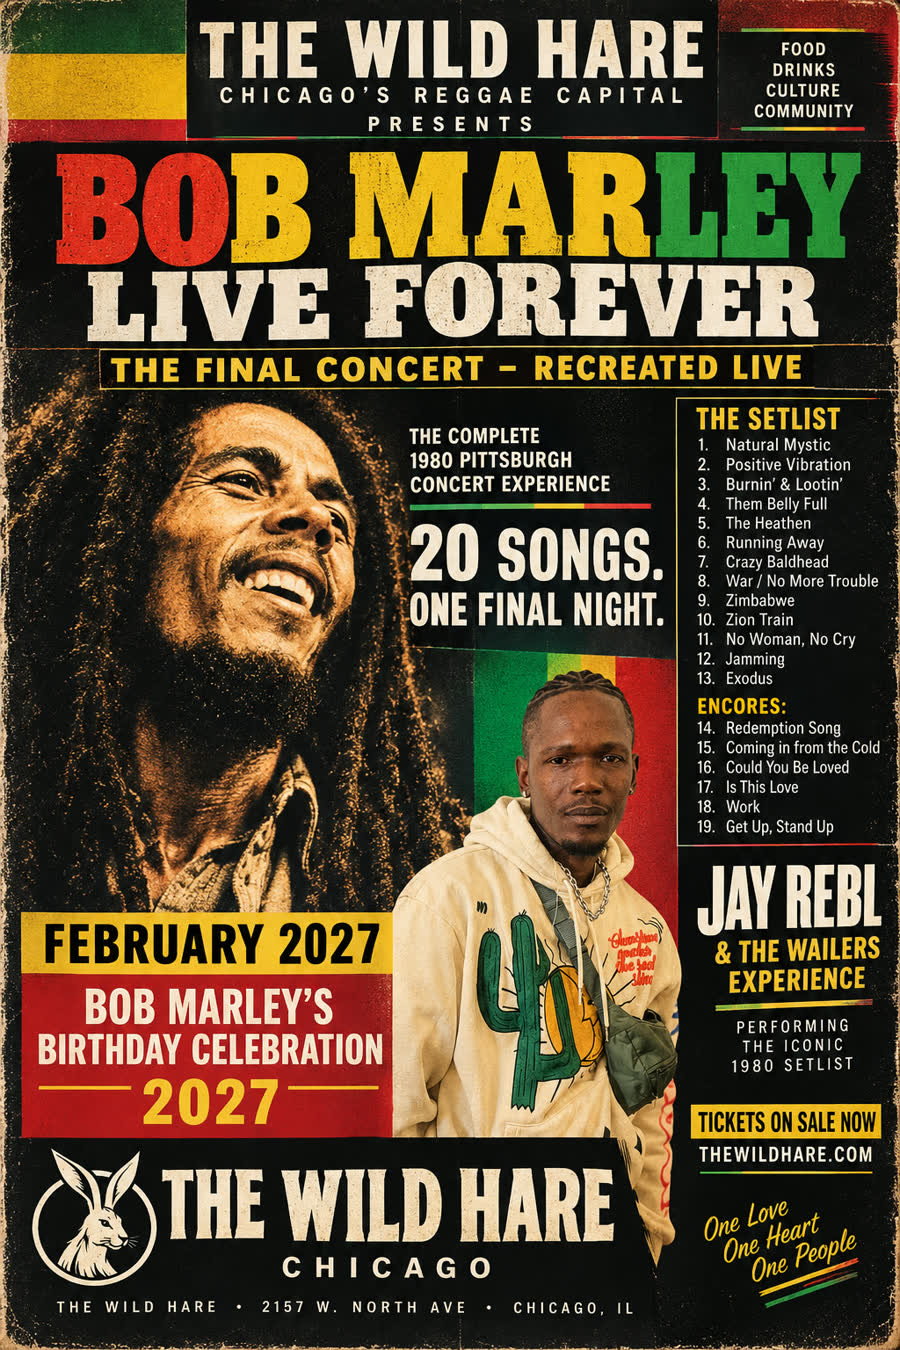
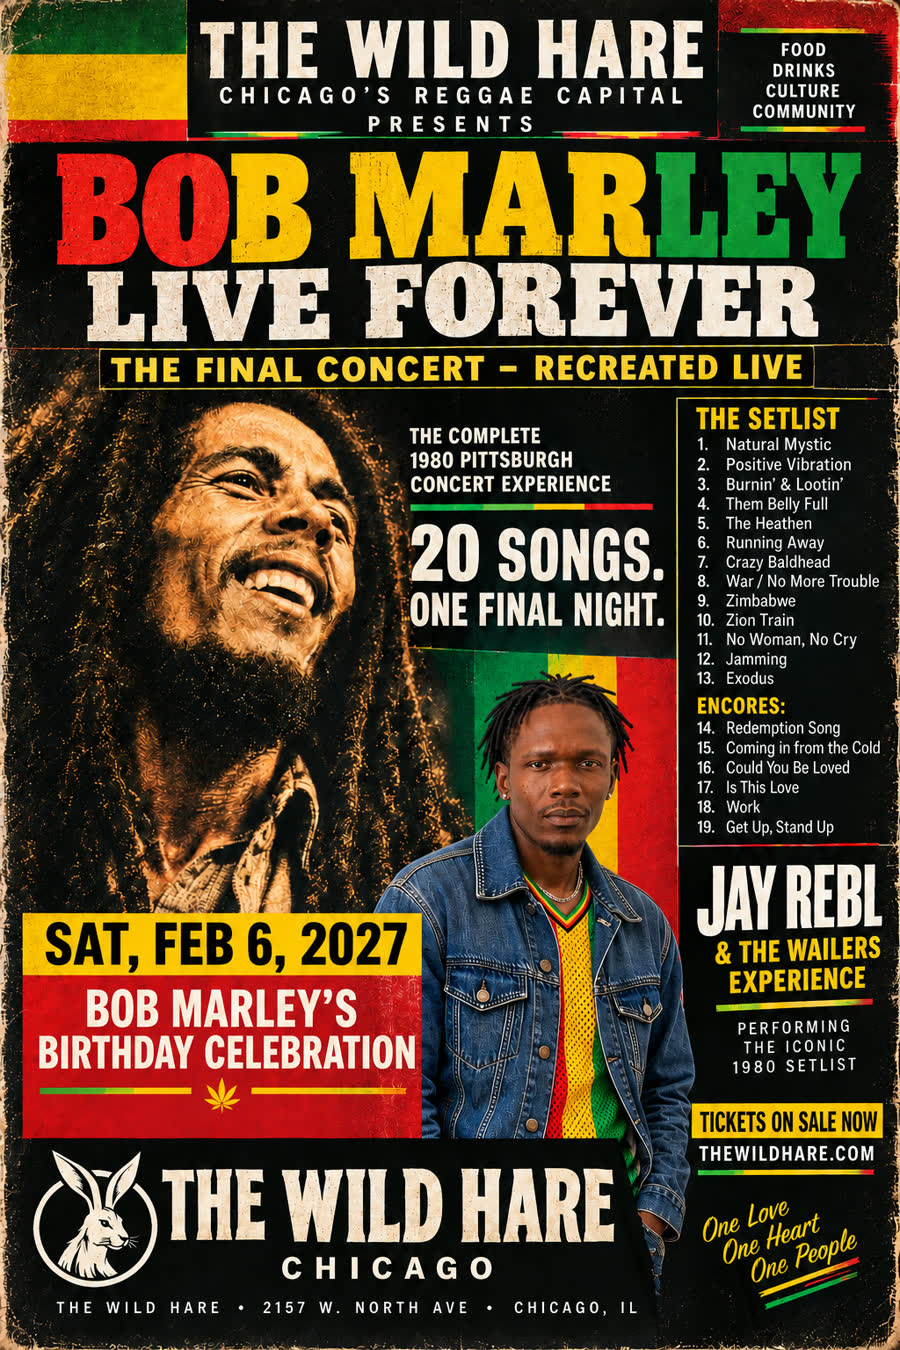
Update Bob Marley tribute: confirmed date + real backing band (Indika)
New flyer confirms the show date: Saturday, February 6, 2027 (Bob
Marley's actual birthday -- verified Feb 6, 2027 does fall on a
Saturday, not just trusted from the image). Replaces the "exact date
TBD" placeholder throughout, and adds proper MusicEvent schema markup
now that a real date exists.

Backing band is Indika Reggae Band, a real Chicago reggae institution
since the mid-1990s (billed on the flyer itself as "The Wailers
Experience") -- they have their own page on selassiefest.com, have
previously played this same venue, and have backed reggae legends
including Gregory Isaacs, Luciano, Richie Spice, and Calypso Rose per
that page. Added a cross-site "Meet Indika Reggae Band" link.

diff --git a/src/routes/-bob-marley-live-forever-page.tsx b/src/routes/-bob-marley-live-forever-page.tsx
@@ -3,11 +3,17 @@
 // src/routes/README.md.
 //
 // Tribute page for The Wild Hare's "Bob Marley: Live Forever — The Final
-// Concert, Recreated Live" (Feb 2027, Jay RebL & The Wailers Experience
-// performing the Sept 23, 1980 Stanley Theatre setlist). Two real
-// historical artifacts are used as photos: a Stanley Theatre backstage
-// pass (that actual night) and a Crystal Palace Bowl ticket stub (June 7,
-// 1980, same Uprising tour, his last-ever London show).
+// Concert, Recreated Live" (Feb 2027, Jay RebL performing the Sept 23,
+// 1980 Stanley Theatre setlist, backed by Indika Reggae Band -- the flyer
+// itself bills the backing band as "The Wailers Experience," but the real
+// band is Indika, a real Chicago reggae institution since the mid-1990s
+// with its own page at selassiefest.com/main-stage/indika-reggae-band.html
+// -- they've previously played The Wild Hare and backed reggae legends
+// including Gregory Isaacs, Luciano, Richie Spice, and Calypso Rose, per
+// that page). Two real historical artifacts are used as photos: a Stanley
+// Theatre backstage pass (that actual night) and a Crystal Palace Bowl
+// ticket stub (June 7, 1980, same Uprising tour, his last-ever London
+// show).
 //
 // Every historical claim below was verified against real sources before
 // writing, not recalled from memory alone -- notably: Marley collapsed
@@ -20,8 +26,11 @@
 // September 23, 1980 • Stanley Theatre • Pittsburgh, PA" (released Feb
 // 2011) almost exactly (the album additionally opens with a ~30-second
 // spoken "Greetings" intro the flyer omits). He died May 11, 1981, in
-// Miami. The Feb 2027 show's exact date is NOT given on the flyer (it's
-// tied to his Feb 6, 1945 birthday) -- don't invent one; say so on the page.
+// Miami. The flyer gives the show's date as Saturday, February 6, 2027 --
+// Bob Marley's actual birthday (Feb 6, 1945, verified earlier). Feb 6,
+// 2027 does fall on a Saturday, confirmed independently by date
+// arithmetic, not just trusted from the image. No exact showtime is
+// given, so that stays marked TBD rather than invented.
 import { CalendarDays, MapPin, Ticket, Share2, Instagram, Facebook, Twitter } from "lucide-react";
 import { Button } from "@/components/ui/button";
 import { Badge } from "@/components/ui/badge";
@@ -67,7 +76,7 @@ export function bobMarleyLiveForeverHead() {
       {
         name: "description",
         content:
-          "The Wild Hare presents Bob Marley: Live Forever — Jay RebL & The Wailers Experience perform the complete 20-song setlist from Bob Marley's actual final concert, September 23, 1980, Stanley Theatre, Pittsburgh. February 2027, Chicago.",
+          "The Wild Hare presents Bob Marley: Live Forever — Jay RebL, backed by Chicago's Indika Reggae Band, performs the complete 20-song setlist from Bob Marley's actual final concert, September 23, 1980, Stanley Theatre, Pittsburgh. February 2027, Chicago.",
       },
       {
         property: "og:title",
@@ -76,7 +85,7 @@ export function bobMarleyLiveForeverHead() {
       {
         property: "og:description",
         content:
-          "The complete 1980 Stanley Theatre setlist, performed live by Jay RebL & The Wailers Experience at The Wild Hare, Chicago. February 2027.",
+          "The complete 1980 Stanley Theatre setlist, performed live by Jay RebL and Indika Reggae Band at The Wild Hare, Chicago. February 2027.",
       },
       { property: "og:type", content: "article" },
       { property: "og:image", content: imageUrl },
@@ -93,8 +102,37 @@ export function bobMarleyLiveForeverHead() {
 }
 
 export function BobMarleyLiveForeverPage() {
+  const eventSchema = {
+    "@context": "https://schema.org",
+    "@type": "MusicEvent",
+    name: "Bob Marley: Live Forever — The Final Concert, Recreated Live",
+    startDate: "2027-02-06",
+    eventStatus: "https://schema.org/EventScheduled",
+    eventAttendanceMode: "https://schema.org/OfflineEventAttendanceMode",
+    image: [`${SITE_URL}${flyerImg}`],
+    location: {
+      "@type": "Place",
+      name: VENUE_NAME,
+      address: VENUE_ADDRESS,
+    },
+    organizer: {
+      "@type": "Organization",
+      name: "The Wild Hare",
+    },
+    performer: [
+      { "@type": "MusicGroup", name: "Jay RebL" },
+      { "@type": "MusicGroup", name: "Indika Reggae Band" },
+    ],
+  };
+
   return (
     <div>
+      <script
+        type="application/ld+json"
+        suppressHydrationWarning
+        dangerouslySetInnerHTML={{ __html: JSON.stringify(eventSchema) }}
+      />
+
       {/* Hero */}
       <section className="relative overflow-hidden border-b border-border bg-card">
         <div className="mx-auto max-w-4xl px-4 py-14 text-center sm:px-6 sm:py-20">
@@ -107,13 +145,13 @@ export function BobMarleyLiveForeverPage() {
           </p>
           <p className="mx-auto mt-4 max-w-2xl text-muted-foreground">
             The complete 20-song setlist from Bob Marley's actual final concert — September 23,
-            1980, the Stanley Theatre, Pittsburgh — performed live, start to finish, by Jay RebL
-            &amp; The Wailers Experience.
+            1980, the Stanley Theatre, Pittsburgh — performed live, start to finish, by Jay RebL,
+            backed by Indika Reggae Band.
           </p>
 
           <div className="mx-auto mt-6 flex max-w-xl flex-wrap items-center justify-center gap-x-6 gap-y-2 text-sm text-muted-foreground">
             <span className="inline-flex items-center gap-1.5">
-              <CalendarDays className="size-4 text-gold" /> February 2027
+              <CalendarDays className="size-4 text-gold" /> Saturday, February 6, 2027
             </span>
             <span className="inline-flex items-center gap-1.5">
               <MapPin className="size-4 text-gold" /> {VENUE_NAME}, Chicago
@@ -121,7 +159,7 @@ export function BobMarleyLiveForeverPage() {
           </div>
           <div className="mt-3 flex justify-center">
             <Badge variant="outline" className="border-gold/40 text-xs text-gold">
-              Bob Marley's Birthday Celebration — exact date TBD, check thewildhare.com
+              Bob Marley's Birthday Celebration — showtime TBD, check thewildhare.com
             </Badge>
           </div>
 
@@ -136,7 +174,7 @@ export function BobMarleyLiveForeverPage() {
 
           <img
             src={flyerImg}
-            alt="Bob Marley: Live Forever — The Final Concert, Recreated Live. The Wild Hare Chicago presents Jay RebL & The Wailers Experience performing the complete 1980 Pittsburgh concert setlist. February 2027, Bob Marley's Birthday Celebration."
+            alt="Bob Marley: Live Forever — The Final Concert, Recreated Live. The Wild Hare Chicago presents Jay RebL & The Wailers Experience performing the complete 1980 Pittsburgh concert setlist. Saturday, February 6, 2027, Bob Marley's Birthday Celebration."
             className="mx-auto mt-10 w-full max-w-sm rounded-2xl border border-gold/30 shadow-[0_0_60px_-15px_var(--color-gold)]"
           />
         </div>
@@ -270,13 +308,19 @@ export function BobMarleyLiveForeverPage() {
         <section className="rounded-2xl border border-gold/30 bg-card p-6 sm:p-8">
           <p className="eyebrow mb-2">Forty-Seven Years Later</p>
           <h2 className="font-display text-2xl font-bold sm:text-3xl">
-            The Recreation — Chicago, Feb 2027
+            The Recreation — Chicago, Feb 6, 2027
           </h2>
           <p className="mt-4 leading-relaxed text-muted-foreground">
             The Wild Hare — Chicago's reggae capital — is bringing that final set back to the stage.
-            Jay RebL, backed by The Wailers Experience, performs the complete 20-song Stanley
-            Theatre setlist start to finish, as part of the Wild Hare's Bob Marley Birthday
-            Celebration.
+            Jay RebL, backed by Chicago's own Indika Reggae Band (billed on the flyer as "The
+            Wailers Experience"), performs the complete 20-song Stanley Theatre setlist start to
+            finish, as part of the Wild Hare's Bob Marley Birthday Celebration — timed to Bob
+            Marley's actual birthday.
+          </p>
+          <p className="mt-4 leading-relaxed text-muted-foreground">
+            Indika is no stranger to this stage or this material: a Chicago reggae institution since
+            the mid-1990s, they've played The Wild Hare before and have served as backing band for
+            reggae legends including Gregory Isaacs, Luciano, Richie Spice, and Calypso Rose.
           </p>
 
           <div className="mt-6 grid gap-4 sm:grid-cols-2">
@@ -292,16 +336,25 @@ export function BobMarleyLiveForeverPage() {
               <div>
                 <p className="font-semibold">Tickets</p>
                 <p className="text-sm text-muted-foreground">
-                  Per the flyer: on sale now at thewildhare.com. Exact February 2027 date not yet
-                  posted — check the venue directly before making plans.
+                  Per the flyer: on sale now at thewildhare.com. Exact showtime not yet posted —
+                  check the venue directly before making plans.
                 </p>
               </div>
             </div>
           </div>
 
-          <div className="mt-6">
+          <div className="mt-6 flex flex-wrap gap-3">
             <Button asChild variant="goldOutline" size="lg">
-              <a href="/jay-rebl">Meet Jay RebL &amp; The Wailers Experience</a>
+              <a href="/jay-rebl">Meet Jay RebL</a>
+            </Button>
+            <Button asChild variant="goldOutline" size="lg">
+              <a
+                href="https://selassiefest.com/main-stage/indika-reggae-band.html"
+                target="_blank"
+                rel="noreferrer"
+              >
+                Meet Indika Reggae Band
+              </a>
             </Button>
           </div>
 
